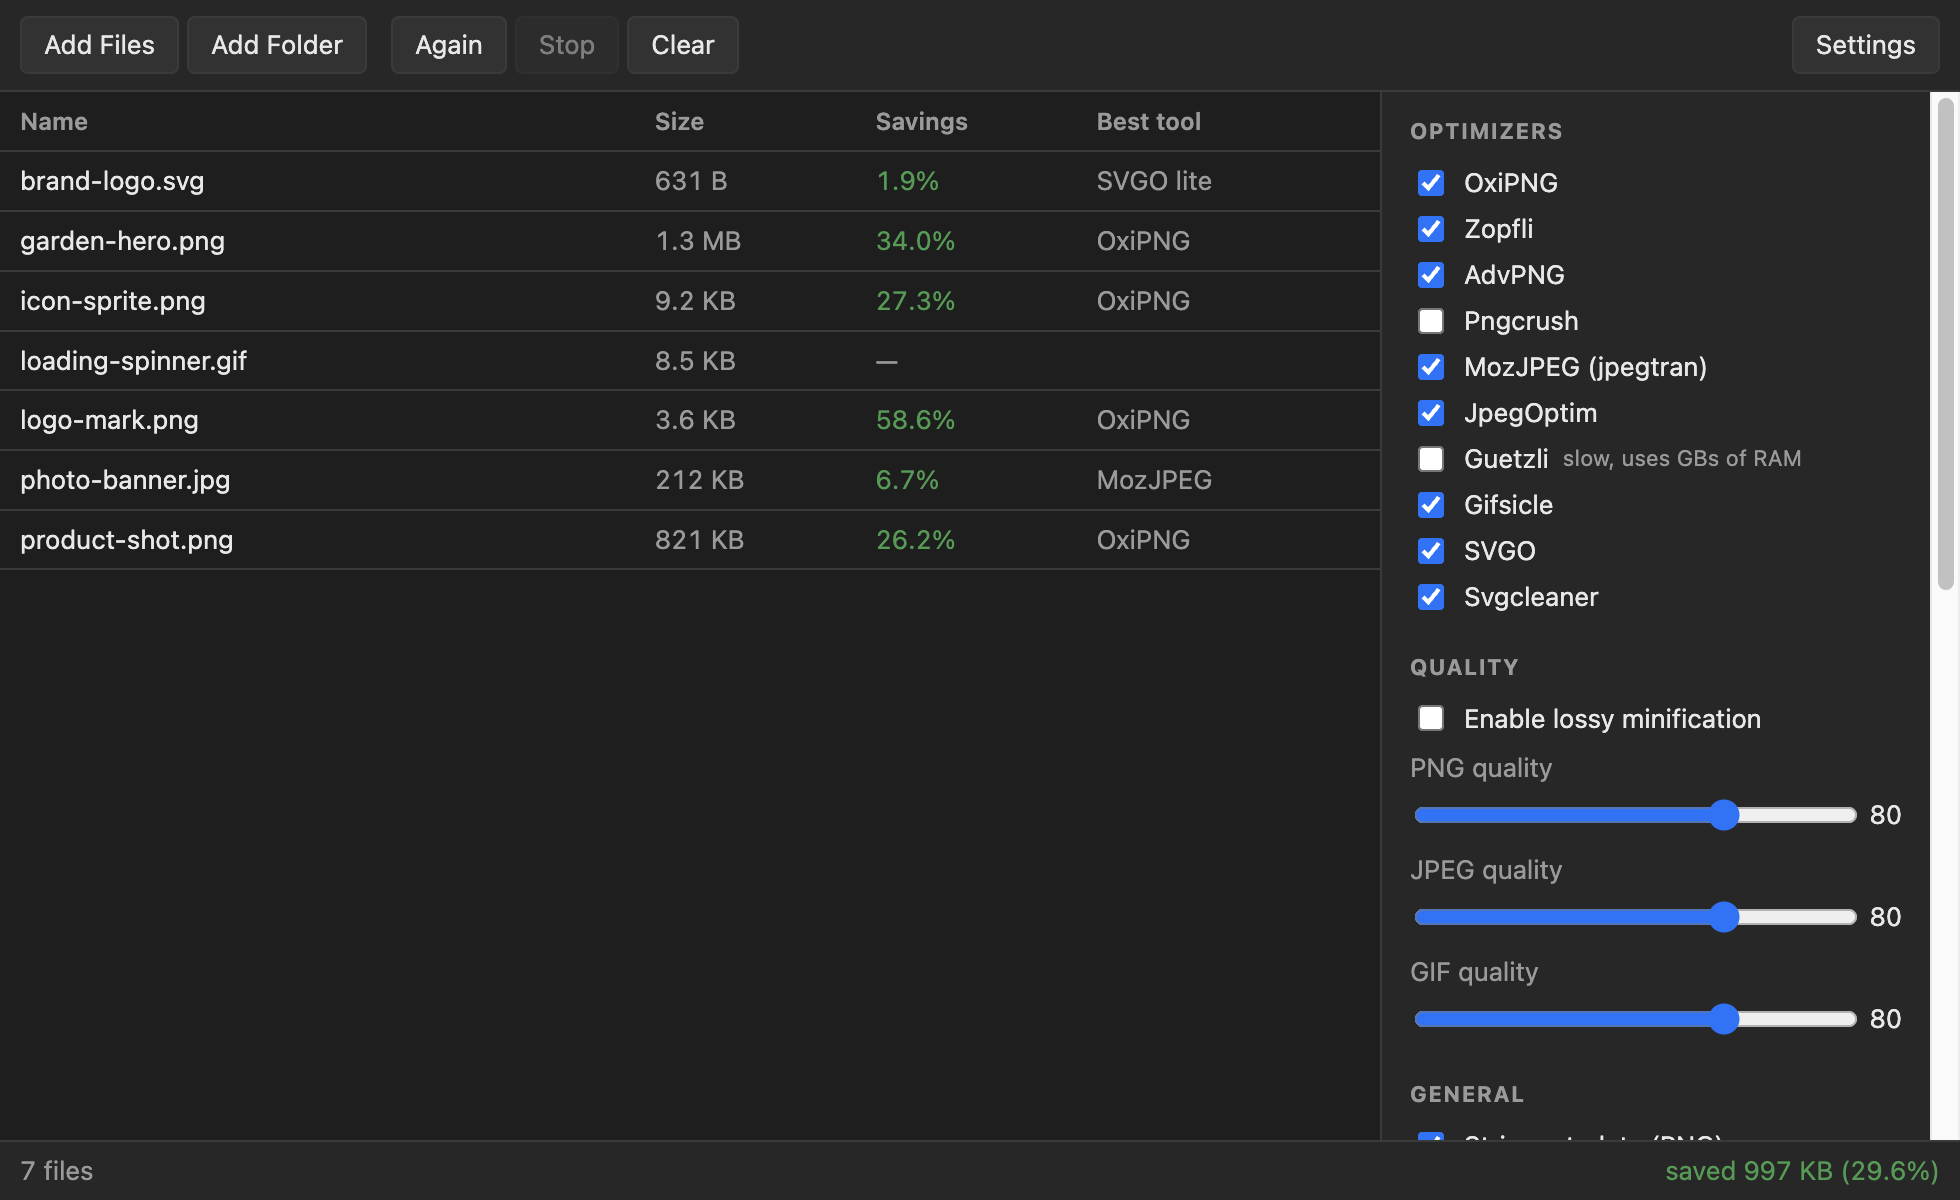
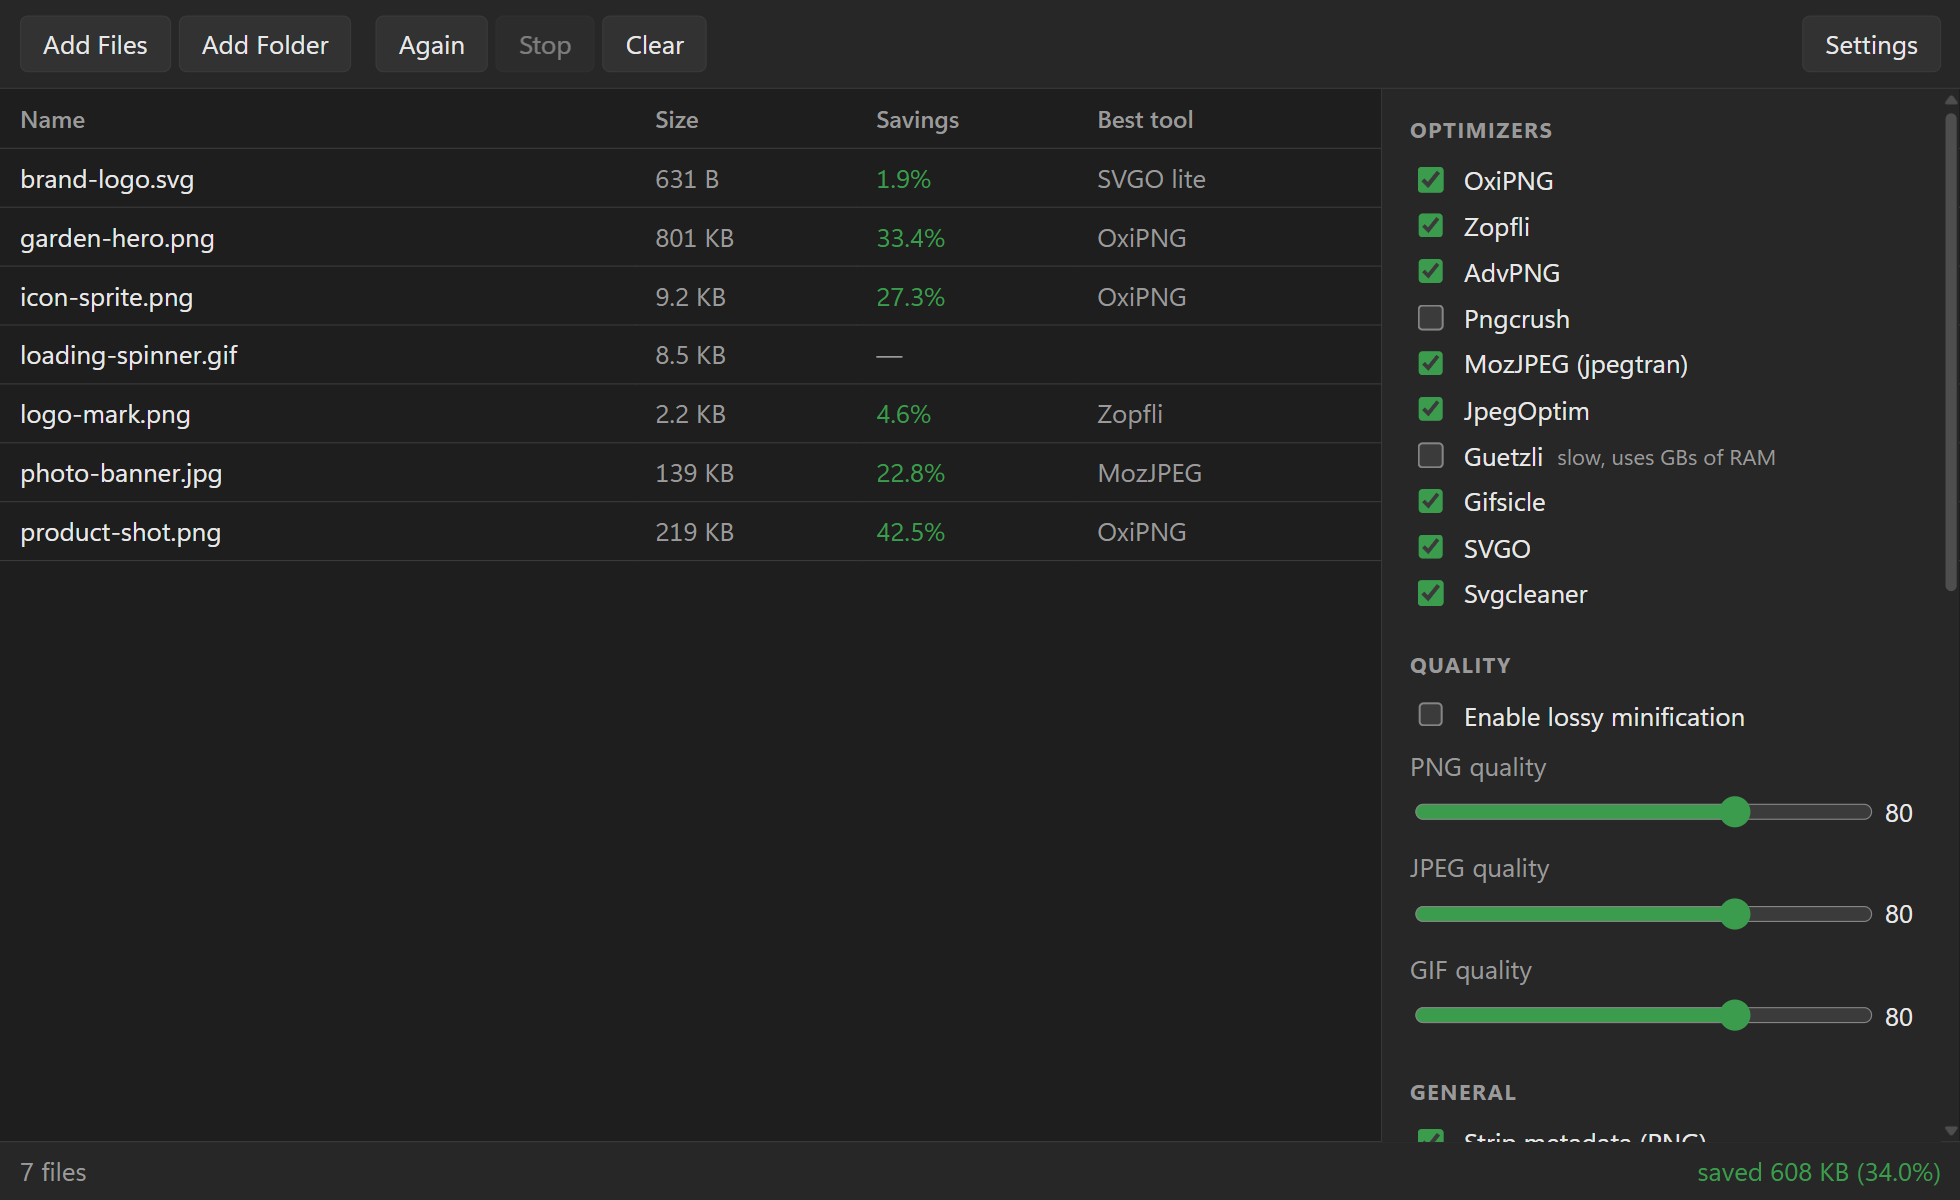
Retake the screenshots on Windows
The previous three were captured on macOS, before the Windows port had run on
Windows, and showed Chromium's light-scheme controls: blue sliders on white
tracks and white checkboxes in the dark window.

These come from a real run on Windows 11, with the optimizers built by
build-windows.ps1 and no MinGW directory on PATH. They keep the originals'
framing - a 980 by 398 window, 980 by 600 with Settings open, at 2x - and the
same seven file names, now drawn from neutral sources in the repository. Four
optimizers win between them: OxiPNG, Zopfli, SVGO and MozJPEG. The settings
view shows the dark controls and the thin scrollbar.

The images were optimized by this build, 37.1% smaller with Zopfli winning all
three, and the README's figure is updated to match.

diff --git a/README.md b/README.md
@@ -50,8 +50,8 @@ with MinGW-w64 under MSYS2, and `win/` packages the app around them. See
 [`win/README.md`](win/README.md) for the detail, including how the optimizer
 plans and the Zopfli size threshold were derived.
 
-The screenshots above were themselves optimized by this build: 33.1% smaller,
-Zopfli winning all three.
+The screenshots above were taken on Windows 11 from a real run, and were
+themselves optimized by this build: 37.1% smaller, Zopfli winning all three.
 
 ---
 
